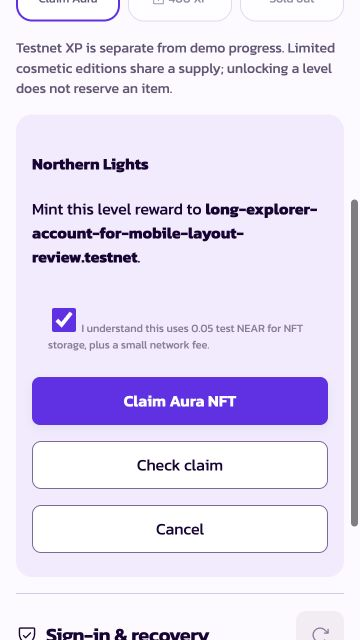
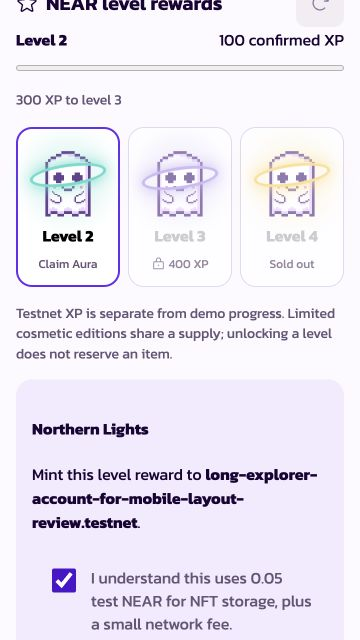
Keep recovery and reward acknowledgements readable

diff --git a/src/play-ui.css b/src/play-ui.css
@@ -680,7 +680,13 @@
   justify-content: center;
   font-size: 12px;
 }
+.play-native .session-review label {
+  font-size: 16px;
+  line-height: 1.45;
+  color: var(--ink-secondary);
+}
 .play-native label.play-consent {
+  color: var(--ink-secondary);
   display: flex;
   align-items: flex-start;
   gap: 12px;
